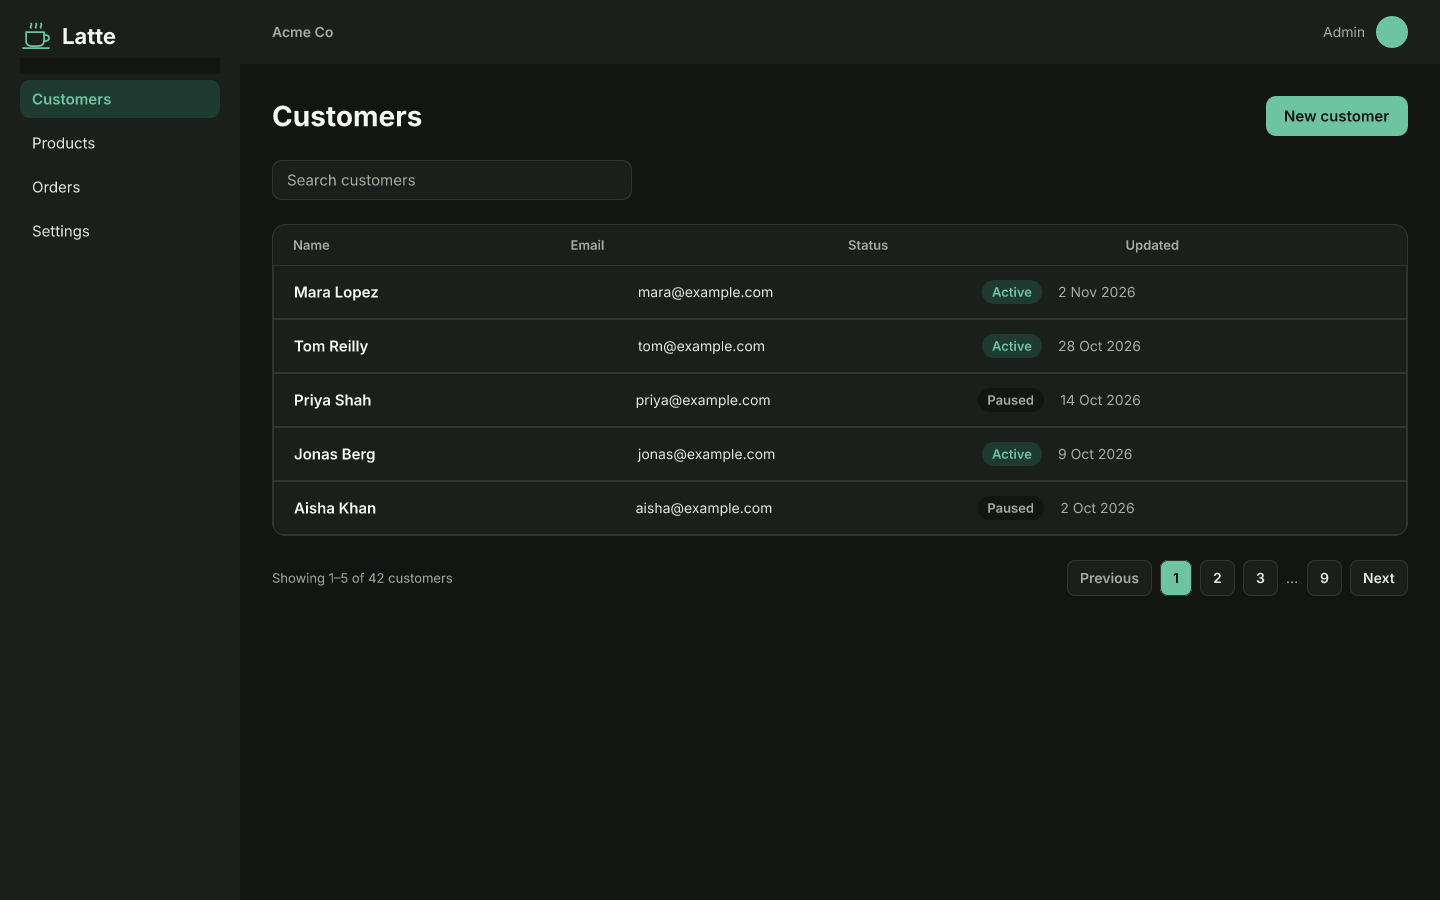
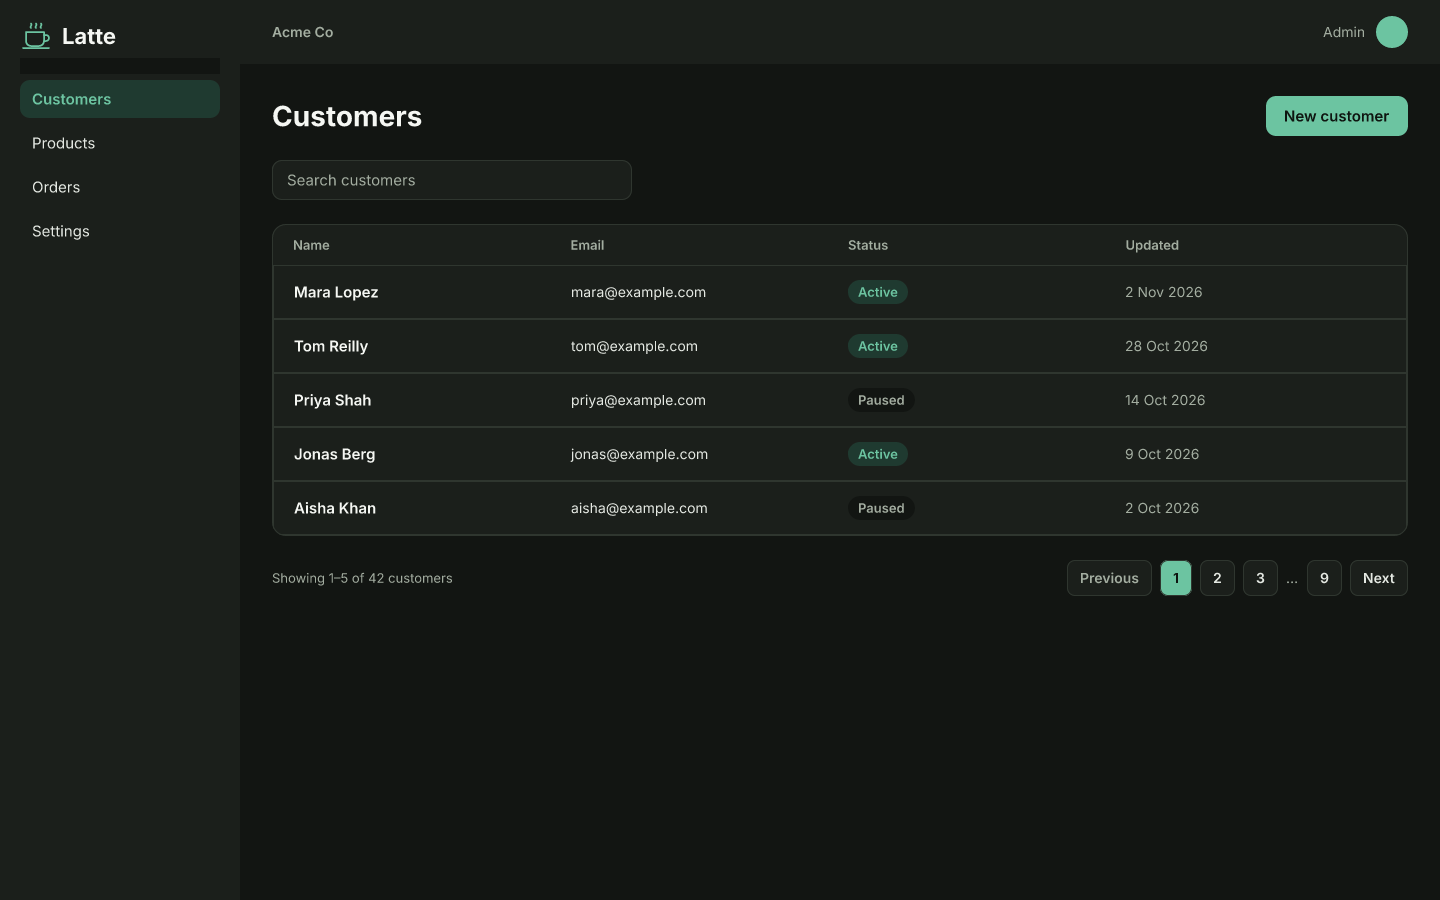
feature: align desktop table status column with its header
The status pill hugged its contents while the header labels filled equal
columns, so the Updated dates sat under the Status header. Wrap the pill in
a full-width cell so every desktop row uses the same column sizing as the
header. Regenerate the design and the desktop previews. Mobile rows have no
header and are unchanged.

diff --git a/design/build/build_design.py b/design/build/build_design.py
@@ -248,8 +248,11 @@ def customer_table(parent, compact=False):
                 crossAlign="center", sH="fill", stroke="border", strokeWeight=1)
         T(row, name, 15, "semibold", "textStrong", fill_width=True)
         T(row, email, 14, "regular", "text", fill_width=True)
-        status_pill(row, status, status == "Active")
-        if not compact:
+        if compact:
+            status_pill(row, status, status == "Active")
+        else:
+            cell = F(row, "cell/status", layout="horizontal", crossAlign="center", sH="fill")
+            status_pill(cell, status, status == "Active")
             T(row, updated, 14, "regular", "muted", fill_width=True)
 
 
